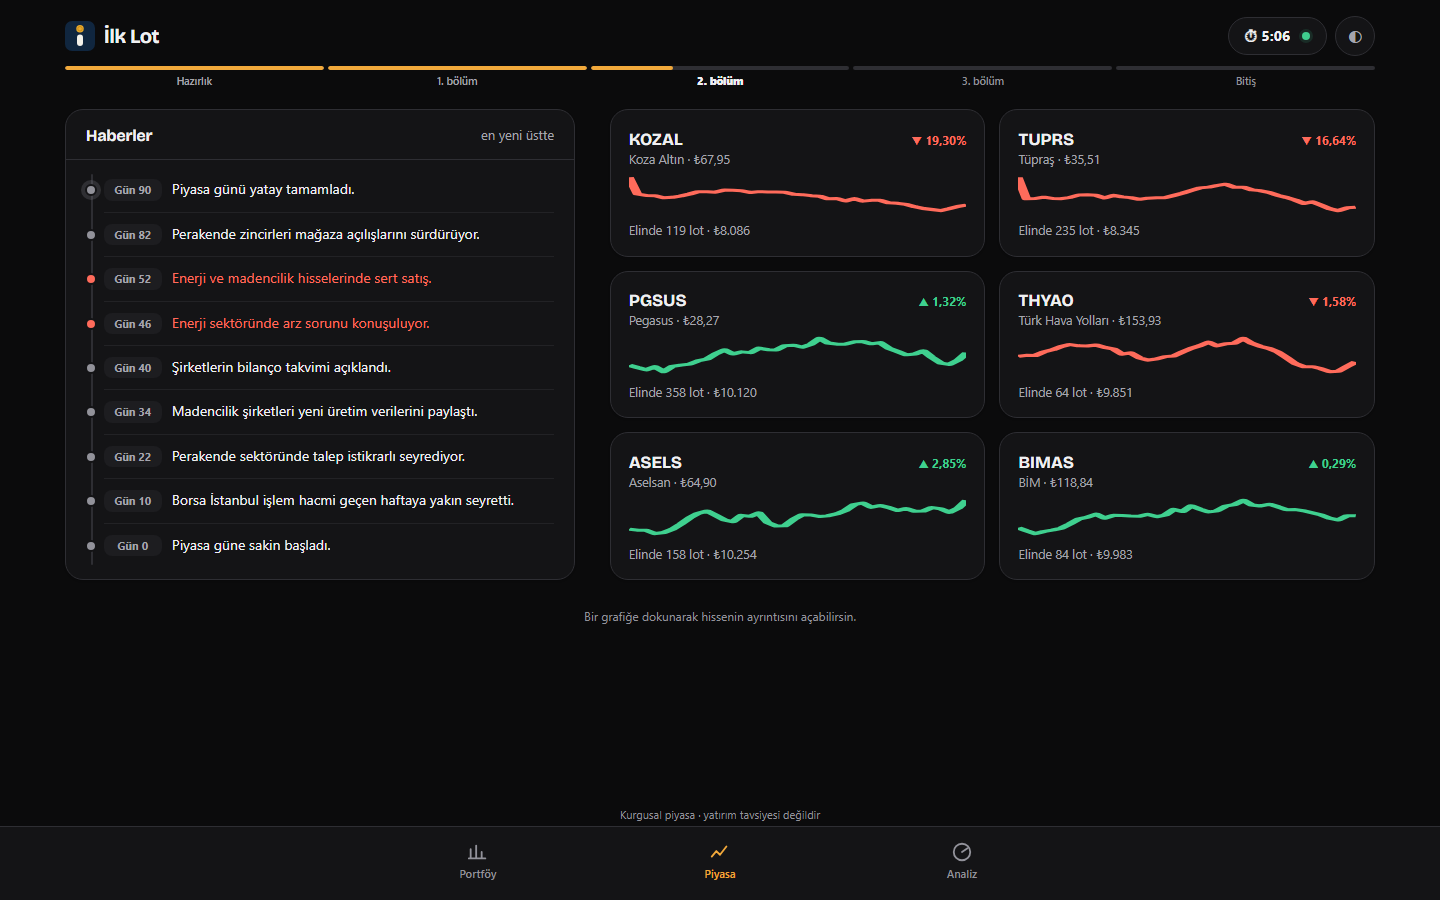
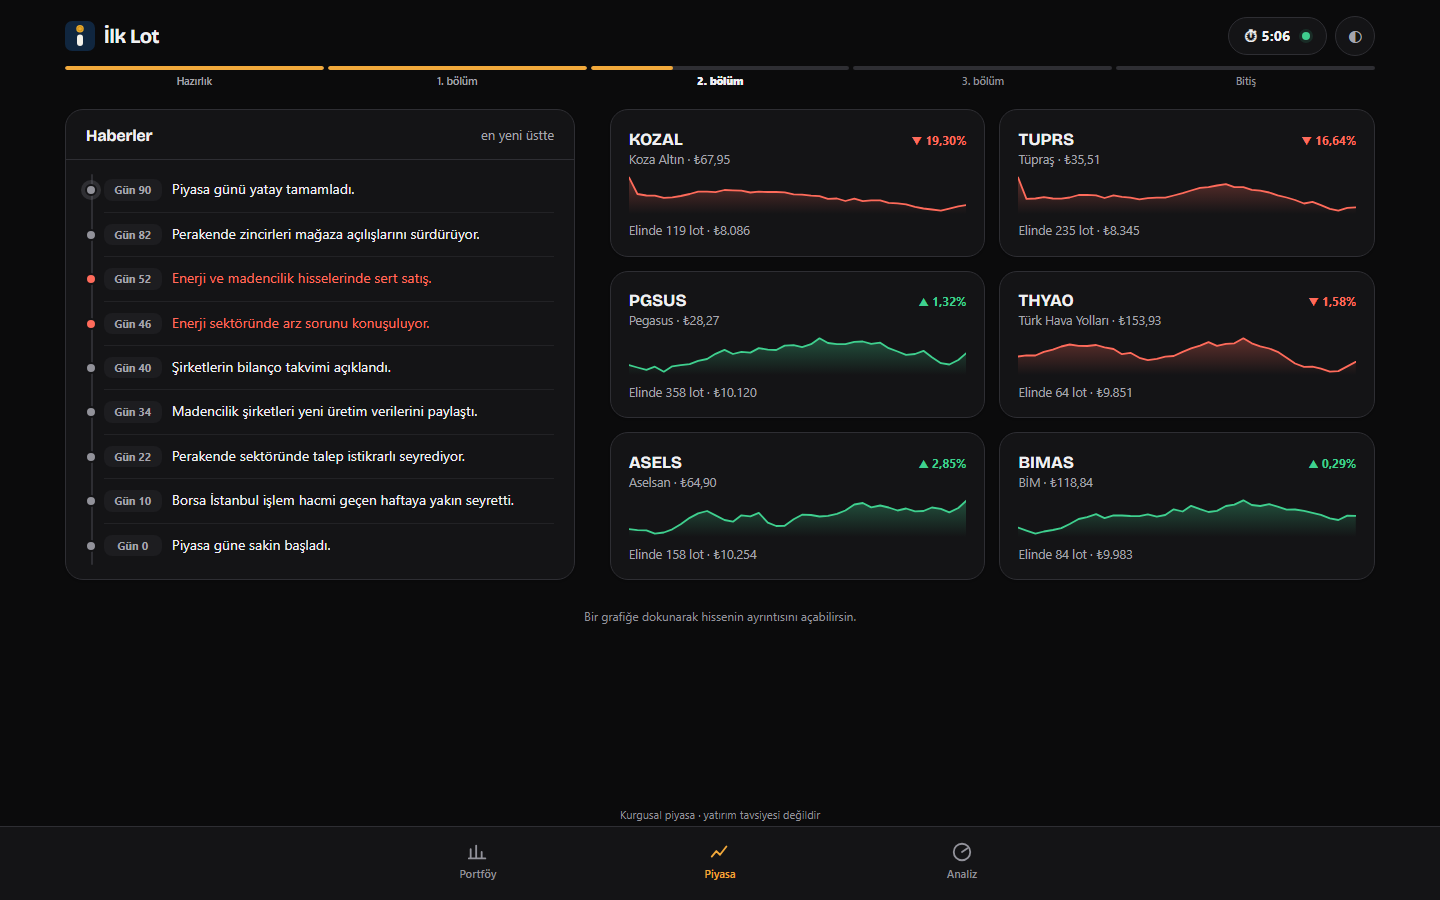
b30: gerçekçi grafikler (degrade dolgu, ızgara, fiyat ekseni, son fiyat etiketi), gezme hesabı yeni eksene uyarlandı

diff --git a/public/src/widgets/price-chart.js b/public/src/widgets/price-chart.js
@@ -7,32 +7,74 @@ import { STOCK_BASES } from '../constants/market-data.js';
 import { initSimulation, stepSimulation } from '../models/market-simulation.js';
 
 // ───────────────── Simülatör ekranı ─────────────────
+// Her grafik kendi degrade kimliğini alır (aynı sayfada birden çok SVG olabilir)
+let gradientCounter = 0;
+function nextGradientId(prefix) {
+  gradientCounter += 1;
+  return prefix + gradientCounter;
+}
+// Çizginin altını renkten şeffafa inen yumuşak bir degrade ile doldurur
+function areaGradientDefs(id, color, topOpacity) {
+  return (
+    '<defs><linearGradient id="' +
+    id +
+    '" x1="0" y1="0" x2="0" y2="1"><stop offset="0" stop-color="' +
+    color +
+    '" stop-opacity="' +
+    topOpacity +
+    '"/><stop offset="1" stop-color="' +
+    color +
+    '" stop-opacity="0"/></linearGradient></defs>'
+  );
+}
+
 export function renderSparkline(values, isUp) {
   const width = 64;
   const height = 24;
   const min = Math.min.apply(0, values);
   const max = Math.max.apply(0, values);
   const result = max - min || 1;
+  const color = isUp ? 'var(--up)' : 'var(--dn)';
+  const gradientId = nextGradientId('spark-fill-');
+  const line = values
+    .map(function (item, index) {
+      return (
+        ((index / Math.max(1, values.length - 1)) * width).toFixed(1) +
+        ',' +
+        (height - 2 - ((item - min) / result) * (height - 4)).toFixed(1)
+      );
+    })
+    .join(' ');
+  // vector-effect: grafik genişliğe göre esnese de çizgi kalınlığı sabit ve keskin kalır
   return (
     '<svg width="' +
     width +
     '" height="' +
     height +
-    '" aria-hidden="true"><polyline points="' +
-    values
-      .map(function (item, index) {
-        return (
-          ((index / Math.max(1, values.length - 1)) * width).toFixed(1) +
-          ',' +
-          (height - 2 - ((item - min) / result) * (height - 4)).toFixed(1)
-        );
-      })
-      .join(' ') +
+    '" aria-hidden="true">' +
+    areaGradientDefs(gradientId, color, 0.32) +
+    '<polygon points="0,' +
+    height +
+    ' ' +
+    line +
+    ' ' +
+    width +
+    ',' +
+    height +
+    '" fill="url(#' +
+    gradientId +
+    ')"/><polyline points="' +
+    line +
     '" fill="none" stroke="' +
-    (isUp ? 'var(--up)' : 'var(--dn)') +
-    '" stroke-width="1.8" stroke-linejoin="round"/></svg>'
+    color +
+    '" stroke-width="1.8" stroke-linejoin="round" stroke-linecap="round" vector-effect="non-scaling-stroke"/></svg>'
   );
 }
+
+// Hisse grafiğinin sağındaki fiyat ekseni için ayrılan pay (çizim alanı bunun dışında kalır; gezme hesabı bunu kullanır)
+const DETAIL_CHART_WIDTH = 320;
+const DETAIL_AXIS_WIDTH = 46;
+export const DETAIL_PLOT_RATIO = (DETAIL_CHART_WIDTH - DETAIL_AXIS_WIDTH) / DETAIL_CHART_WIDTH;
 
 // ── Hisse detay sayfası: büyük grafik (10/30/60 gün), ortalama alış çizgisi, pozisyon, ilgili haberler ──
 export function renderDetailChart(symbol) {
@@ -44,20 +86,26 @@ export function renderDetailChart(symbol) {
   const min = Math.min.apply(0, vals);
   const max = Math.max.apply(0, vals);
   const range = max - min || 1;
-  const width = 320;
+  const width = DETAIL_CHART_WIDTH;
+  const plotWidth = width - DETAIL_AXIS_WIDTH;
   const height = 150;
   const padding = 10;
   const length = history.length;
   const isUp = history[history.length - 1] >= history[0];
   const color = isUp ? 'var(--up)' : 'var(--dn)';
+  const gradientId = nextGradientId('detail-fill-');
   const yValue = function (value) {
     return padding + (height - 2 * padding) * (1 - (value - min) / range);
   };
+  const xValue = function (index) {
+    return length > 1 ? (index / (length - 1)) * plotWidth : 0;
+  };
   const point = history
     .map(function (item, index) {
-      return (length > 1 ? (index / (length - 1)) * width : 0).toFixed(1) + ',' + yValue(item).toFixed(1);
+      return xValue(index).toFixed(1) + ',' + yValue(item).toFixed(1);
     })
     .join(' ');
+  const lastY = yValue(history[length - 1]);
   let html =
     '<svg viewBox="0 0 ' +
     width +
@@ -67,25 +115,50 @@ export function renderDetailChart(symbol) {
     symbol +
     ' son ' +
     length +
-    ' günlük fiyat grafiği"><polygon points="0,' +
+    ' günlük fiyat grafiği">' +
+    areaGradientDefs(gradientId, color, 0.3);
+  // Yatay ızgara ve sağ fiyat ekseni: en düşükten en yükseğe dört seviye
+  for (let step = 0; step < 4; step++) {
+    const level = min + (range * step) / 3;
+    const y = yValue(level);
+    html +=
+      '<line x1="0" x2="' +
+      plotWidth +
+      '" y1="' +
+      y.toFixed(1) +
+      '" y2="' +
+      y.toFixed(1) +
+      '" stroke="var(--ln)" stroke-width="1" opacity=".7"/>';
+    if (Math.abs(y - lastY) > 9)
+      html +=
+        '<text x="' +
+        (width - 2) +
+        '" y="' +
+        (y + 3).toFixed(1) +
+        '" font-size="8.5" text-anchor="end" fill="var(--mu)">' +
+        formatNumber(level) +
+        '</text>';
+  }
+  html +=
+    '<polygon points="0,' +
     height +
     ' ' +
     point +
     ' ' +
-    width +
+    plotWidth +
     ',' +
     height +
-    '" fill="' +
-    color +
-    '" opacity=".1"/><polyline points="' +
+    '" fill="url(#' +
+    gradientId +
+    ')"/><polyline points="' +
     point +
     '" fill="none" stroke="' +
     color +
-    '" stroke-width="2.2" stroke-linejoin="round"/>';
+    '" stroke-width="2" stroke-linejoin="round" stroke-linecap="round"/>';
   if (avg)
     html +=
       '<line x1="0" x2="' +
-      width +
+      plotWidth +
       '" y1="' +
       yValue(avg).toFixed(1) +
       '" y2="' +
@@ -95,13 +168,46 @@ export function renderDetailChart(symbol) {
       '" font-size="10" font-weight="700" fill="var(--act)" stroke="var(--sf)" stroke-width="3" paint-order="stroke">ortalama alışın ₺' +
       formatNumber(avg) +
       '</text>';
+  // Son fiyat: çizginin ucunda nokta, eksende renkli etiket
+  html +=
+    '<line x1="' +
+    xValue(length - 1).toFixed(1) +
+    '" x2="' +
+    plotWidth +
+    '" y1="' +
+    lastY.toFixed(1) +
+    '" y2="' +
+    lastY.toFixed(1) +
+    '" stroke="' +
+    color +
+    '" stroke-width="1" stroke-dasharray="2 3" opacity=".8"/><circle cx="' +
+    xValue(length - 1).toFixed(1) +
+    '" cy="' +
+    lastY.toFixed(1) +
+    '" r="3.4" fill="' +
+    color +
+    '" stroke="var(--sf)" stroke-width="1.6"/><rect x="' +
+    (plotWidth + 1) +
+    '" y="' +
+    (lastY - 7).toFixed(1) +
+    '" width="' +
+    (DETAIL_AXIS_WIDTH - 1) +
+    '" height="14" rx="3" fill="' +
+    color +
+    '"/><text x="' +
+    (plotWidth + DETAIL_AXIS_WIDTH / 2 + 0.5).toFixed(1) +
+    '" y="' +
+    (lastY + 3.2).toFixed(1) +
+    '" font-size="8.5" font-weight="700" text-anchor="middle" fill="var(--ink)">' +
+    formatNumber(history[length - 1]) +
+    '</text>';
   // Parmakla gezme: S.scrubDay mutlak gün numarasıdır (piyasa akarken işaret aynı güne sabit kalır; pencerenin dışına çıkarsa kaybolur)
   const stockIndex = state.scrubDay != null ? length - 1 - (simulation.tick - state.scrubDay) : -1;
   if (stockIndex >= 0 && stockIndex < length) {
-    const startX = length > 1 ? (stockIndex / (length - 1)) * width : 0;
+    const startX = xValue(stockIndex);
     const startY = yValue(history[stockIndex]);
     const label = 'Gün ' + state.scrubDay + ' · ₺' + formatNumber(history[stockIndex]);
-    const analysis = startX < width * 0.28 ? 'start' : startX > width * 0.72 ? 'end' : 'middle';
+    const analysis = startX < plotWidth * 0.28 ? 'start' : startX > plotWidth * 0.72 ? 'end' : 'middle';
     html +=
       '<line x1="' +
       startX.toFixed(1) +
@@ -118,7 +224,7 @@ export function renderDetailChart(symbol) {
       '" r="4.5" fill="' +
       color +
       '" stroke="var(--sf)" stroke-width="2"/><text id="scrub-label" x="' +
-      Math.min(width - 2, Math.max(2, startX)).toFixed(1) +
+      Math.min(plotWidth - 2, Math.max(2, startX)).toFixed(1) +
       '" y="11" font-size="11" font-weight="700" text-anchor="' +
       analysis +
       '" fill="var(--tx)" stroke="var(--sf)" stroke-width="3" paint-order="stroke">' +
@@ -244,7 +350,19 @@ export function simulationChartSvg() {
     length +
     ' satış ve ' +
     buyCount +
-    ' alış noktası işaretli." style="display:block">';
+    ' alış noktası işaretli." style="display:block">' +
+    areaGradientDefs('portfolio-fill', 'var(--tx)', 0.16);
+  [0.25, 0.5, 0.75].forEach(function (fraction) {
+    const y = (10 + (height - 32) * fraction).toFixed(1);
+    html +=
+      '<line x1="8" x2="' +
+      (width - 8) +
+      '" y1="' +
+      y +
+      '" y2="' +
+      y +
+      '" stroke="var(--ln)" stroke-width="1" opacity=".6"/>';
+  });
   CONFIG.simCrises.forEach(function (item) {
     html +=
       '<rect x="' +
@@ -266,7 +384,27 @@ export function simulationChartSvg() {
     innerSimulationChartGeometry.Y(data.v0).toFixed(1) +
     '" stroke="var(--mu)" stroke-width="1" stroke-dasharray="4 4"/>';
   html +=
-    '<polyline fill="none" stroke="var(--tx)" stroke-width="2" stroke-linejoin="round" points="' +
+    '<polygon fill="url(#portfolio-fill)" points="' +
+    innerSimulationChartGeometry.X(0).toFixed(1) +
+    ',' +
+    (height - 22) +
+    ' ' +
+    data.v
+      .map(function (item, index) {
+        return (
+          innerSimulationChartGeometry.X(index).toFixed(1) +
+          ',' +
+          innerSimulationChartGeometry.Y(item).toFixed(1)
+        );
+      })
+      .join(' ') +
+    ' ' +
+    innerSimulationChartGeometry.X(simTicks).toFixed(1) +
+    ',' +
+    (height - 22) +
+    '"/>';
+  html +=
+    '<polyline fill="none" stroke="var(--tx)" stroke-width="2" stroke-linejoin="round" stroke-linecap="round" points="' +
     data.v
       .map(function (item, index) {
         return (

diff --git a/public/src/widgets/trial-chart.js b/public/src/widgets/trial-chart.js
@@ -30,9 +30,28 @@ export function renderTrialChart(trial) {
     width +
     ' ' +
     (height + 12) +
-    '" width="100%" role="img" aria-label="' +
+    '" width="100%" overflow="visible" role="img" aria-label="' +
     escapeHtml(trial.sym) +
-    ' son 30 işlem günü fiyat grafiği"><rect x="' +
+    ' son 30 işlem günü fiyat grafiği"><defs><linearGradient id="trial-fill" x1="0" y1="0" x2="0" y2="1"><stop offset="0" stop-color="' +
+    color +
+    '" stop-opacity=".3"/><stop offset="1" stop-color="' +
+    color +
+    '" stop-opacity="0"/></linearGradient></defs>' +
+    [0.25, 0.5, 0.75]
+      .map(function (fraction) {
+        const y = (height * fraction).toFixed(1);
+        return (
+          '<line x1="0" x2="' +
+          width +
+          '" y1="' +
+          y +
+          '" y2="' +
+          y +
+          '" stroke="var(--ln)" stroke-width="1" opacity=".6"/>'
+        );
+      })
+      .join('') +
+    '<rect x="' +
     ((width * 25) / 29 - 4).toFixed(1) +
     '" y="0" width="' +
     ((width * 4) / 29 + 8).toFixed(1) +
@@ -46,13 +65,17 @@ export function renderTrialChart(trial) {
     width +
     ',' +
     height +
-    '" fill="' +
-    color +
-    '" opacity=".12"/><polyline points="' +
+    '" fill="url(#trial-fill)"/><polyline points="' +
     line +
     '" fill="none" stroke="' +
     color +
-    '" stroke-width="2.2" stroke-linejoin="round" stroke-linecap="round"/><text x="2" y="' +
+    '" stroke-width="2.2" stroke-linejoin="round" stroke-linecap="round"/><circle cx="' +
+    point[point.length - 1][0].toFixed(1) +
+    '" cy="' +
+    point[point.length - 1][1].toFixed(1) +
+    '" r="3.4" fill="' +
+    color +
+    '" stroke="var(--sf)" stroke-width="1.6"/><text x="2" y="' +
     (height + 11) +
     '" font-size="9" fill="var(--mu)">30 gün önce</text><text x="' +
     width +

diff --git a/public/src/viewmodels/market-controller.js b/public/src/viewmodels/market-controller.js
@@ -15,7 +15,7 @@ import {
   stockCrisisAt,
 } from '../models/market-simulation.js';
 import { closeModal, isModalOpen } from '../widgets/modal.js';
-import { renderDetailChart } from '../widgets/price-chart.js';
+import { DETAIL_PLOT_RATIO, renderDetailChart } from '../widgets/price-chart.js';
 import { saveSnapshot } from '../services/session-persistence.js';
 import { updateSimulatorLive } from '../views/simulator-view.js';
 import { showToast } from '../widgets/toast.js';
@@ -259,7 +259,9 @@ export function scrubChartAt(event) {
   const simulation = state.simulation;
   const detailSymbol = state.detailSymbol;
   const count = Math.min(state.detailRangeDays, simulation.h[detailSymbol].length);
-  const i = Math.round(Math.min(1, Math.max(0, (event.clientX - rect.left) / rect.width)) * (count - 1));
+  // Çizim alanı grafiğin solunda; sağdaki fiyat ekseni gezme hesabına katılmaz
+  const plotFraction = (event.clientX - rect.left) / rect.width / DETAIL_PLOT_RATIO;
+  const i = Math.round(Math.min(1, Math.max(0, plotFraction)) * (count - 1));
   state.scrubDay = simulation.tick - (count - 1 - i);
   if (scrubState.gesture) scrubState.gesture.moves++;
   const detailChartElement = byId('detail-chart');

diff --git a/public/src/constants/app-config.js b/public/src/constants/app-config.js
@@ -1,7 +1,7 @@
-// Uygulama sürümü ve çalışma ayarları (CONFIG). Tüm modüller buradan okur; pilot başladıktan sonra ölçüt ayarları DEĞİŞTİRİLMEZ.
+// Uygulama sürümü ve çalışma ayarları (CONFIG). Tüm modüller buradan okur; pilot başladıktan sonra ölçüt ayarları DEĞİŞTİRİLMEZ.
 
 // Her olay ve anlık görüntü bu sürümle etiketlenir. Pilot ortasında kodu değiştirirsen MUTLAKA artır.
-export const APP_VERSION = '2026.10.25-b29';
+export const APP_VERSION = '2026.10.25-b30';
 
 // ═════════════════ ÇALIŞMA AYARLARI ═════════════════
 export const CONFIG = {

diff --git a/DEVIR_NOTU.md b/DEVIR_NOTU.md
@@ -1,6 +1,6 @@
-# Devir notu (başka bir Claude oturumu ve geliştirici için)
+# Devir notu (başka bir Claude oturumu ve geliştirici için)
 
-Bu belge, projeyi ilk kez gören biri için yazıldı. Önce bunu, sonra `README.md` ve `docs/MIMARI.md`'yi oku. Durum tarihi: **25 Ekim 2026**. Uygulama sürümü **2026.10.25-b29**, onam sürümü **v1**. **b29 (25 Ekim 2026):** simülatör geniş ekran paneli yeniden tasarlandı (≥1100 px: portföyde özet çubuğu + hisse tablosu + dağılım/son haber; piyasada zaman çizelgeli haber akışı; analiz ve hisse ayrıntısı iki sütun; ızgara satırları artık pencere yüksekliğine sıkışıp kartları kesmiyor, `grid-auto-rows: max-content`); süre/karar sayacı yeniden biçimlendi. **Hata düzeltmesi (b27 yeniden adlandırma kalıntısı):** `widgets/sync-indicator.js` `'ok'` durumunu `'is-correct'` sanıyordu, bu yüzden kayıt başarılı olsa da gösterge hep "hata" sınıfı alıyordu; `is-error` sınıfı genel hata kutusuyla çakıştığı için sayaçta büyük kırmızı baloncuk çıkıyordu. Nokta sınıfı `is-offline` oldu. Haber akışı satırlarına `news-item`/`is-negative` sınıfı eklendi (yalnızca stil kancası; içerik ve vurgu aynı). **b28 (25 Ekim 2026):** Firebase Hosting'e yayınlandı (`https://ilk-lot-pilot.web.app`), `main` dalına gönderimde GitHub Actions ile otomatik yayın (`.github/workflows/yayin.yml`); geniş ekranda tam genişlik düzeni; **hata düzeltmesi:** simülatör Piyasa sekmesindeki hisse kartları dolmuyordu (b27 yeniden adlandırmasında `mc-` ↔ `market-card-` kimlik uyuşmazlığı); README ekran görüntüleri `docs/ekran_goruntuleri/`. **b27 köklü yeniden yapılandırmadır** (aşağıda en üstte); eski b25/b26 notlarındaki dosya ve ad bilgileri `docs/ESKI_YENI_ADLAR.md` ile eşleştirilmelidir. Son eklemeler: aşağıda "9 Ekim eklemeleri".
+Bu belge, projeyi ilk kez gören biri için yazıldı. Önce bunu, sonra `README.md` ve `docs/MIMARI.md`'yi oku. Durum tarihi: **25 Ekim 2026**. Uygulama sürümü **2026.10.25-b30**, onam sürümü **v1**. **b30 (25 Ekim 2026):** grafikler gerçekçi hale getirildi (yalnızca çizim: degrade dolgu, yatay ızgara; hisse grafiğinde sağ fiyat ekseni ve renkli son fiyat etiketi; mini grafiklerde sabit çizgi kalınlığı; karar anı ve sonuç grafiklerinde uç nokta). Veri, çizgi şekli ve fiyat yolu özeti (`3171573551 18600`) değişmedi; karar anı grafiğine fiyat değeri EKLENMEDİ. Fare/parmakla gezme yeni eksene göre düzeltildi (`DETAIL_PLOT_RATIO`). **b29 (25 Ekim 2026):** simülatör geniş ekran paneli yeniden tasarlandı (≥1100 px: portföyde özet çubuğu + hisse tablosu + dağılım/son haber; piyasada zaman çizelgeli haber akışı; analiz ve hisse ayrıntısı iki sütun; ızgara satırları artık pencere yüksekliğine sıkışıp kartları kesmiyor, `grid-auto-rows: max-content`); süre/karar sayacı yeniden biçimlendi. **Hata düzeltmesi (b27 yeniden adlandırma kalıntısı):** `widgets/sync-indicator.js` `'ok'` durumunu `'is-correct'` sanıyordu, bu yüzden kayıt başarılı olsa da gösterge hep "hata" sınıfı alıyordu; `is-error` sınıfı genel hata kutusuyla çakıştığı için sayaçta büyük kırmızı baloncuk çıkıyordu. Nokta sınıfı `is-offline` oldu. Haber akışı satırlarına `news-item`/`is-negative` sınıfı eklendi (yalnızca stil kancası; içerik ve vurgu aynı). **b28 (25 Ekim 2026):** Firebase Hosting'e yayınlandı (`https://ilk-lot-pilot.web.app`), `main` dalına gönderimde GitHub Actions ile otomatik yayın (`.github/workflows/yayin.yml`); geniş ekranda tam genişlik düzeni; **hata düzeltmesi:** simülatör Piyasa sekmesindeki hisse kartları dolmuyordu (b27 yeniden adlandırmasında `mc-` ↔ `market-card-` kimlik uyuşmazlığı); README ekran görüntüleri `docs/ekran_goruntuleri/`. **b27 köklü yeniden yapılandırmadır** (aşağıda en üstte); eski b25/b26 notlarındaki dosya ve ad bilgileri `docs/ESKI_YENI_ADLAR.md` ile eşleştirilmelidir. Son eklemeler: aşağıda "9 Ekim eklemeleri".
 
 ## Proje nedir
 **İlk Lot:** TÜBİTAK 2209-A başvurusu için hazırlanan bir araştırma uygulaması (başvuru aşamasında; destek kesinleşmedi, "destekli" yazma). Soru: genç yatırımcılarda **zararına satış öncesi 10 saniyelik bir bekleme ekranı panik satışı azaltır mı ve etki, bekleme ekranı ortadan kalktığında da sürer mi (aktarım)?** Telefonda çalışan tek dosyalık web uygulaması (HTML + JS), isteğe bağlı Firebase kaydı. Araştırmayı yürüten kişi üniversite öğrencisi; danışmanı ve etik kurulu var.

diff --git a/CLAUDE.md b/CLAUDE.md
@@ -1,4 +1,4 @@
-# İlk Lot – Claude Code için notlar
+# İlk Lot – Claude Code için notlar
 
 Önce `DEVIR_NOTU.md`, sonra `README.md` ve `docs/MIMARI.md` oku. Kullanıcıyla Türkçe konuş; kısa, doğrudan, sonuç önce.
 
@@ -10,7 +10,7 @@
 - Tarayıcı tabanlı Python testleri (`uygulama_testleri.py`, `erisilebilirlik_taramasi.py`, `gorsel_karsilastirma.py`) eski tek dosya yapısı içindi; yeni yapı için yeniden yazılması gerekir (`testler/README.md`).
 - Yeni test eklersen koda bilerek hata sokarak (mutasyon) yakaladığını doğrula.
 - Çalışma simülatörünün fiyat yolu özeti sabittir (`3171573551 18600`, 300 gün × 6 hisse); değişmemeli.
-- Sürüm: `public/src/constants/app-config.js` içinde `APP_VERSION` (şu an `2026.10.25-b29`). Her yayında artır, `DEVIR_NOTU.md`'ye kayıt yaz.
+- Sürüm: `public/src/constants/app-config.js` içinde `APP_VERSION` (şu an `2026.10.25-b30`). Her yayında artır, `DEVIR_NOTU.md`'ye kayıt yaz.
 - Pilot başladıktan sonra çalışma ayarlarını (`CONFIG`) değiştirme (`python firebase/dagit.py --kilitle`).
 - Kullanıcı testleri kendisi koşar (25.10.2026 kararı): koşmadığın testi "geçti" diye yazma; ne denendi, ne denenmedi açıkça belirt.
 
